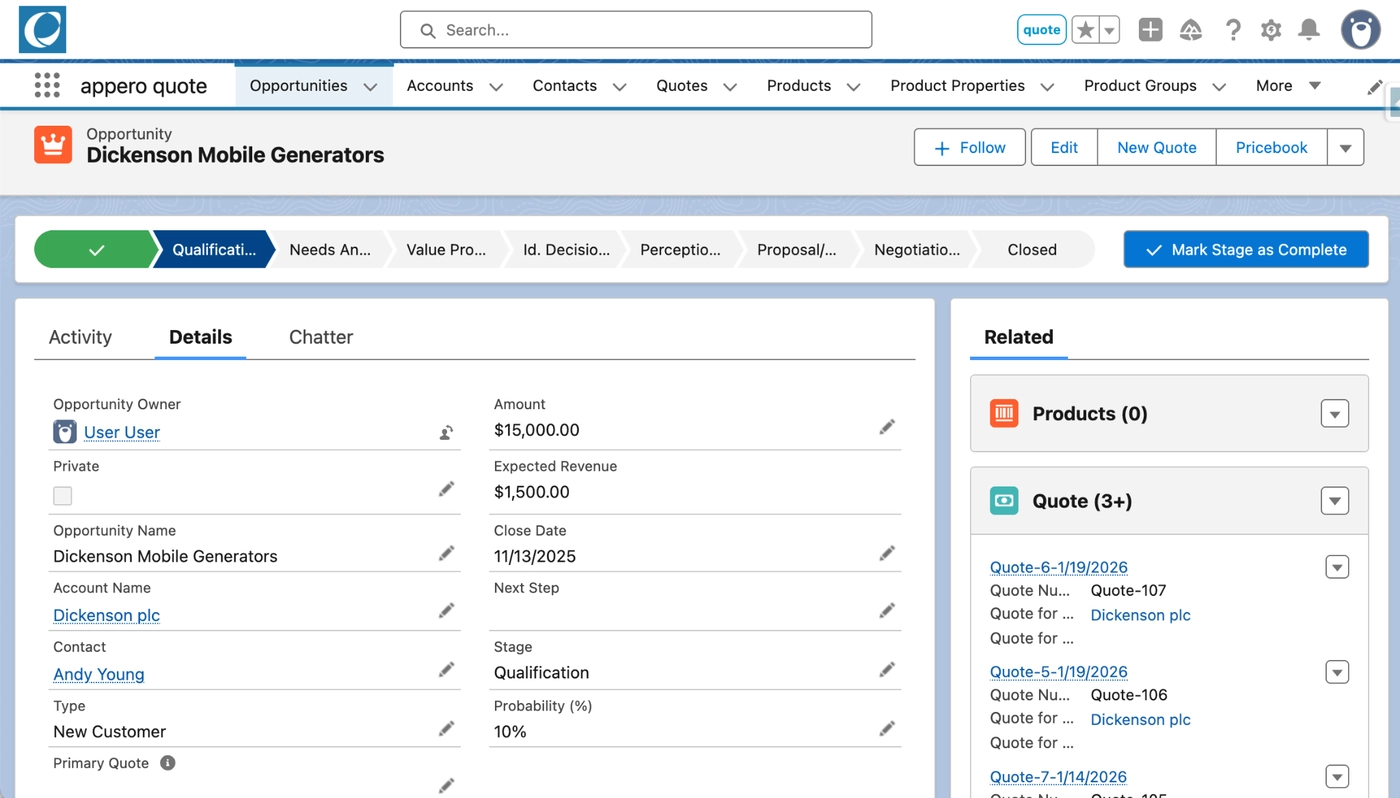
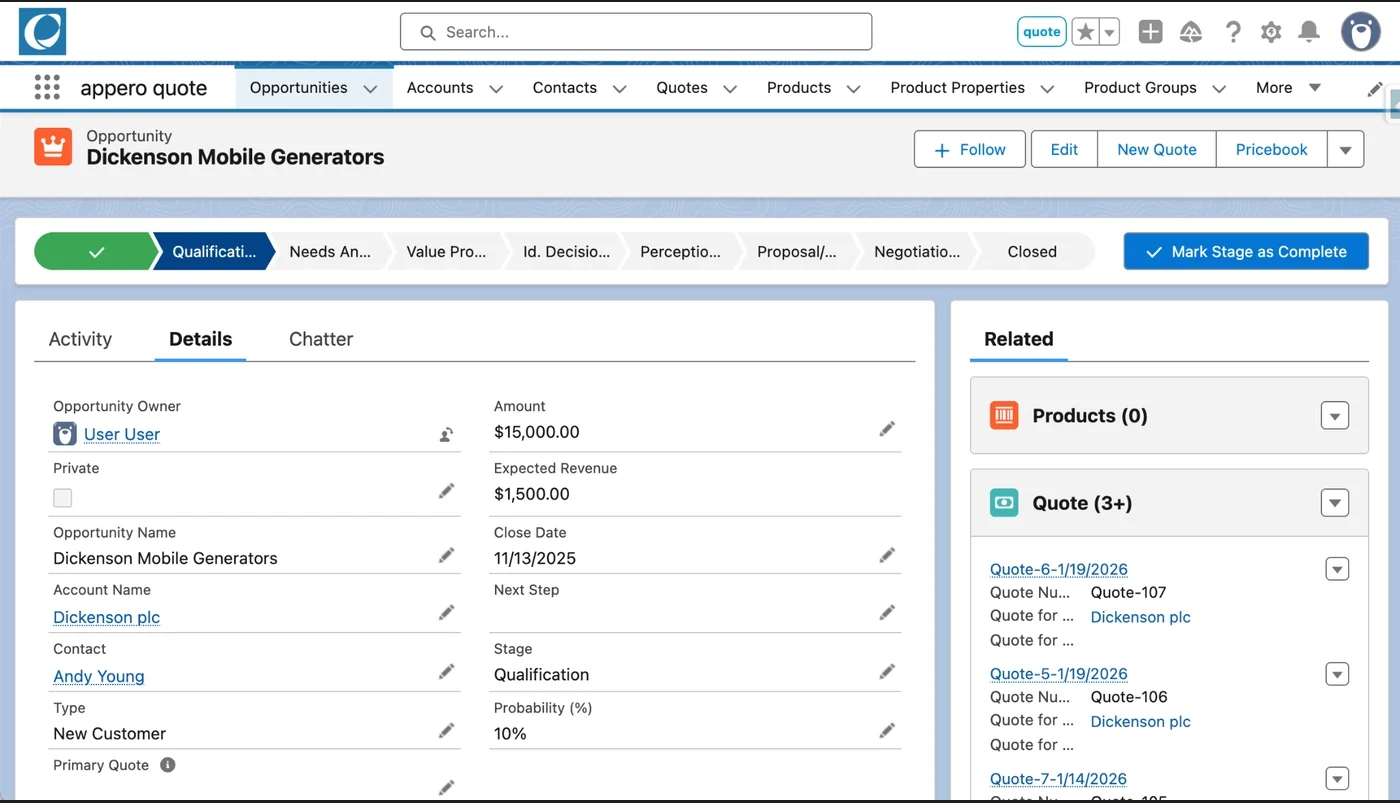
Appero: кадры How it works на одном холсте — картинка не прыгает при смене шага

diff --git a/build/appero.html b/build/appero.html
@@ -237,13 +237,13 @@
 
         <div class="process-plate" data-el="container">
           <img class="process-plate__shot process-plate__shot--on" src="../assets/appero-step-1-opportunity.webp"
-               width="1400" height="798" alt="Salesforce Opportunity with the appero quote actions in place">
+               width="1400" height="803" alt="Salesforce Opportunity with the appero quote actions in place">
           <img class="process-plate__shot" src="../assets/appero-step-2-products.webp"
-               width="1400" height="752" alt="Product search inside the quote, filtering a large price book">
+               width="1400" height="803" alt="Product search inside the quote, filtering a large price book">
           <img class="process-plate__shot" src="../assets/appero-step-3-pricing.webp"
-               width="1400" height="762" alt="Inline editing of list price, discount and end price on a quote line">
+               width="1400" height="803" alt="Inline editing of list price, discount and end price on a quote line">
           <img class="process-plate__shot" src="../assets/appero-step-4-editor.webp"
-               width="1400" height="729" alt="Quote Editor with the customer document in view while it is edited">
+               width="1400" height="803" alt="Quote Editor with the customer document in view while it is edited">
           <img class="process-plate__shot" src="../assets/appero-step-5-send.webp"
                width="1400" height="803" alt="Finished quote sent from Salesforce through Lightning Email">
         </div>
